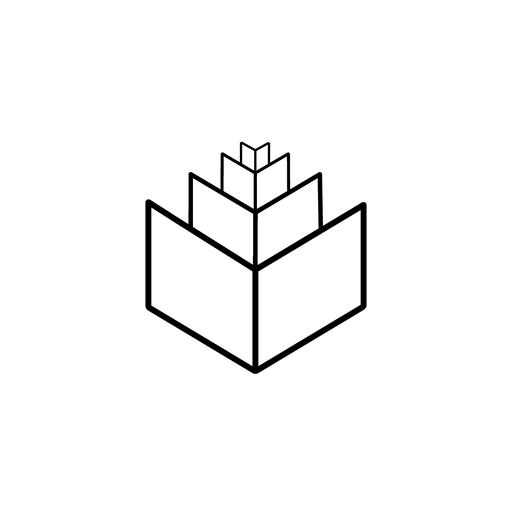
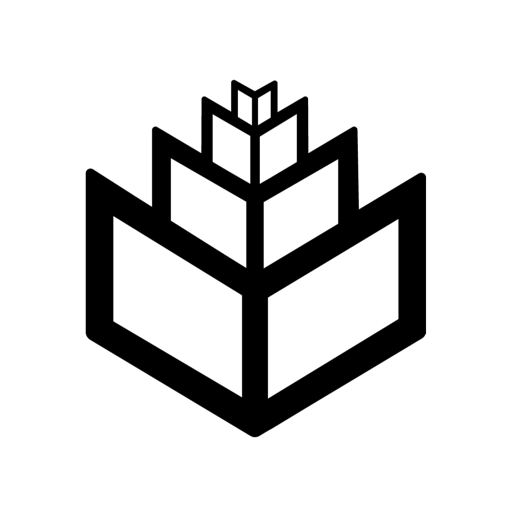
chore: update open-source components

Changed region(s): [[0.1562, 0.1562, 0.8438, 0.875]]

diff --git a/apps/openread-app/src/components/brand/openread-mark.tsx b/apps/openread-app/src/components/brand/openread-mark.tsx
@@ -1,0 +1,28 @@
+import React from 'react';
+
+interface OpenReadMarkProps extends React.SVGProps<SVGSVGElement> {
+  className?: string;
+}
+
+/**
+ * OpenRead brand mark (icon-only, no background).
+ * Renders with currentColor so it adapts to the surrounding text/theme color.
+ * Stroke bolding keeps the outline mark legible at small UI sizes.
+ */
+export function OpenReadMark({ className, ...props }: OpenReadMarkProps) {
+  return (
+    <svg
+      viewBox='147 154 781 781'
+      xmlns='http://www.w3.org/2000/svg'
+      fill='currentColor'
+      stroke='currentColor'
+      strokeWidth={14}
+      strokeLinejoin='round'
+      aria-hidden='true'
+      className={className}
+      {...props}
+    >
+      <path d='M883.85,365.5l-126.67,75.99c-.49-24.22-.91-50.75-1.37-76.59-.53-31.21-1.09-63.48-1.62-91.45-.1-5.34-6.01-8.65-10.61-5.87l-93.14,55.39h-.03l-.46-114.33c-.04-4.46-4.89-7.21-8.68-4.96l-8.89,5.2-.07-.18-7.77,4.71-39.08,22.88v-61.12c0-4.46-4.81-7.31-8.75-5.13l-39.05,21.79-41.33-23.06c-3.94-2.21-8.75,.63-8.75,5.13v61.16l-53.74-31.39c-3.8-2.25-8.65,.49-8.68,4.96l-.46,114.26-93.35-55.36c-4.71-2.74-10.61,.6-10.61,6.05l-.03,17.19h-.07v105.16l-.04,40.24-30.82-19.4-93.84-60c-6.64-4.22-15.32,.53-15.32,8.37v338.75l.49,.18c.88,4.11,3.09,7.8,6.29,10.54l-.18,.11,1.55,.95c.39,.25,.74,.56,1.16,.77l338.51,203.01c5.76,3.44,13,3.44,18.73,0l22.53-13.53,.32,.21,84.07-50.79,235.98-141.54c3.65-2.18,6.36-5.55,7.73-9.45l1.12-.46V374.05c0-7.73-8.44-12.48-15.04-8.54Zm-339.74-159.43l27.1-16.06v57.54l-27.1,16.27v-57.75Zm3.69,81.44l78.63-47.94v101.75l-55.6,33.07-23.02,13.29v-100.17Zm165.93,47.31v136.83l-157.5,94.44v-140.34l157.5-90.93Zm-148.53,292.46l275.63-166.11v211.9l-275.63,167.93v-213.73ZM238.65,454.99l272.01,167.58v215.88l-267.93-158.3c-1.34-.81-2.71-1.65-4.08-2.46v-222.69Zm121.51-122.07l159.46,92.05v140.27l-40.07-24.85-119.4-75.15v-132.33Zm167.86,54.62l-47.52-27.45-32.02-18.98v-101.05l79.54,45.97v101.51Zm-26.33-141.26v-57.64l30.05,17.71v57.89l-30.05-17.96Z' />
+    </svg>
+  );
+}

diff --git a/apps/openread-app/src/app/layout.tsx b/apps/openread-app/src/app/layout.tsx
@@ -30,7 +30,8 @@ export const metadata: Metadata = {
   ],
   icons: [
     { rel: 'apple-touch-icon', url: '/apple-touch-icon.png' },
-    { rel: 'icon', url: '/icon.png' },
+    { rel: 'icon', url: '/favicon.svg', type: 'image/svg+xml' },
+    { rel: 'icon', url: '/favicon.ico', sizes: '32x32' },
   ],
   openGraph: {
     type: 'website',
@@ -94,7 +95,8 @@ export default function RootLayout({ children }: { children: React.ReactNode }) 
         <meta name='apple-mobile-web-app-status-bar-style' content='default' />
         <meta name='apple-mobile-web-app-title' content='Openread' />
         <link rel='apple-touch-icon' sizes='180x180' href='/apple-touch-icon.png' />
-        <link rel='icon' href='/favicon.ico' />
+        <link rel='icon' type='image/svg+xml' href='/favicon.svg' />
+        <link rel='icon' href='/favicon.ico' sizes='32x32' />
         <link rel='manifest' href='/manifest.json' />
         <meta name='description' content={description} />
         <meta property='og:url' content={url} />

diff --git a/apps/openread-app/src/components/auth/openread-auth-card.tsx b/apps/openread-app/src/components/auth/openread-auth-card.tsx
@@ -1,9 +1,9 @@
 'use client';
 
 import { FormEvent, type ElementType, useMemo, useState } from 'react';
-import { BookOpen } from 'lucide-react';
 
 import LegalLinks from '@/components/LegalLinks';
+import { OpenReadMark } from '@/components/brand/openread-mark';
 import { Button } from '@/components/primitives/button';
 import {
   Card,
@@ -109,7 +109,7 @@ export function OpenReadAuthCard({
       <Card className='border-base-300/80 bg-base-100/95 shadow-base-content/10 shadow-2xl backdrop-blur'>
         <CardHeader className='items-center gap-3 pb-5 text-center'>
           <div className='from-primary to-secondary text-primary-content flex size-12 items-center justify-center rounded-2xl bg-gradient-to-br shadow-lg'>
-            <BookOpen aria-hidden='true' className='size-6' strokeWidth={1.6} />
+            <OpenReadMark aria-hidden='true' className='size-6' />
           </div>
           <div className='space-y-2'>
             <CardTitle aria-level={1} className='text-2xl' role='heading'>
